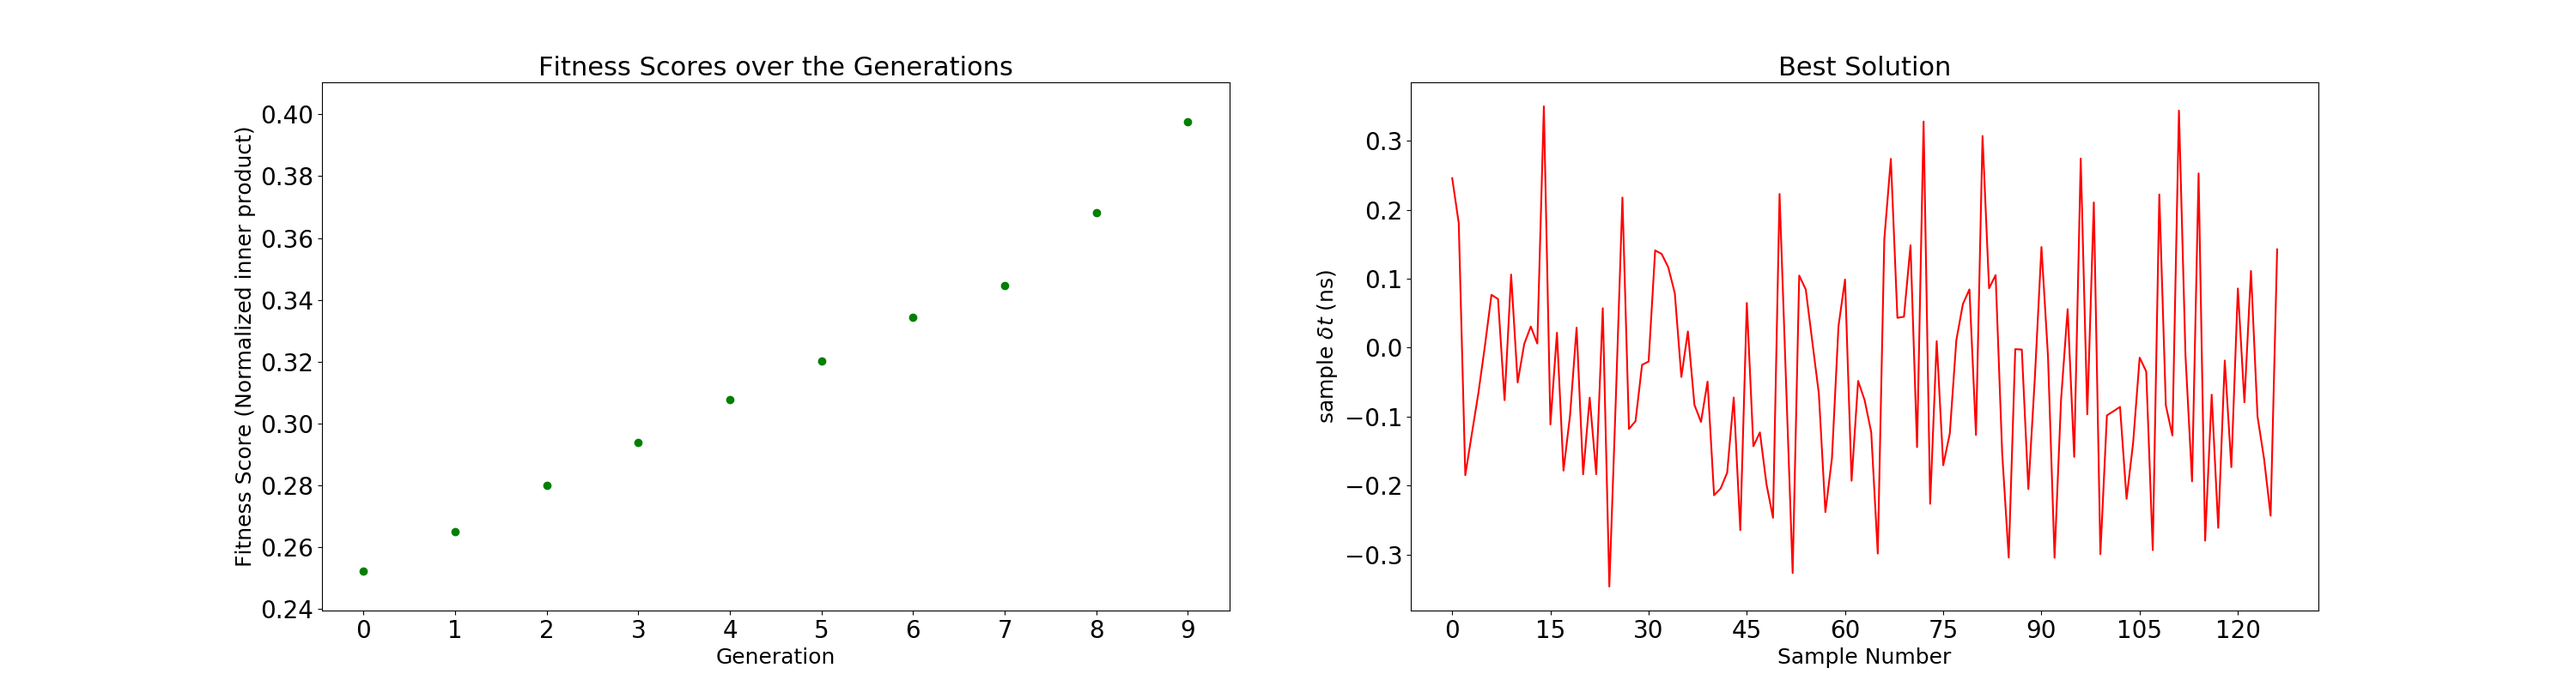
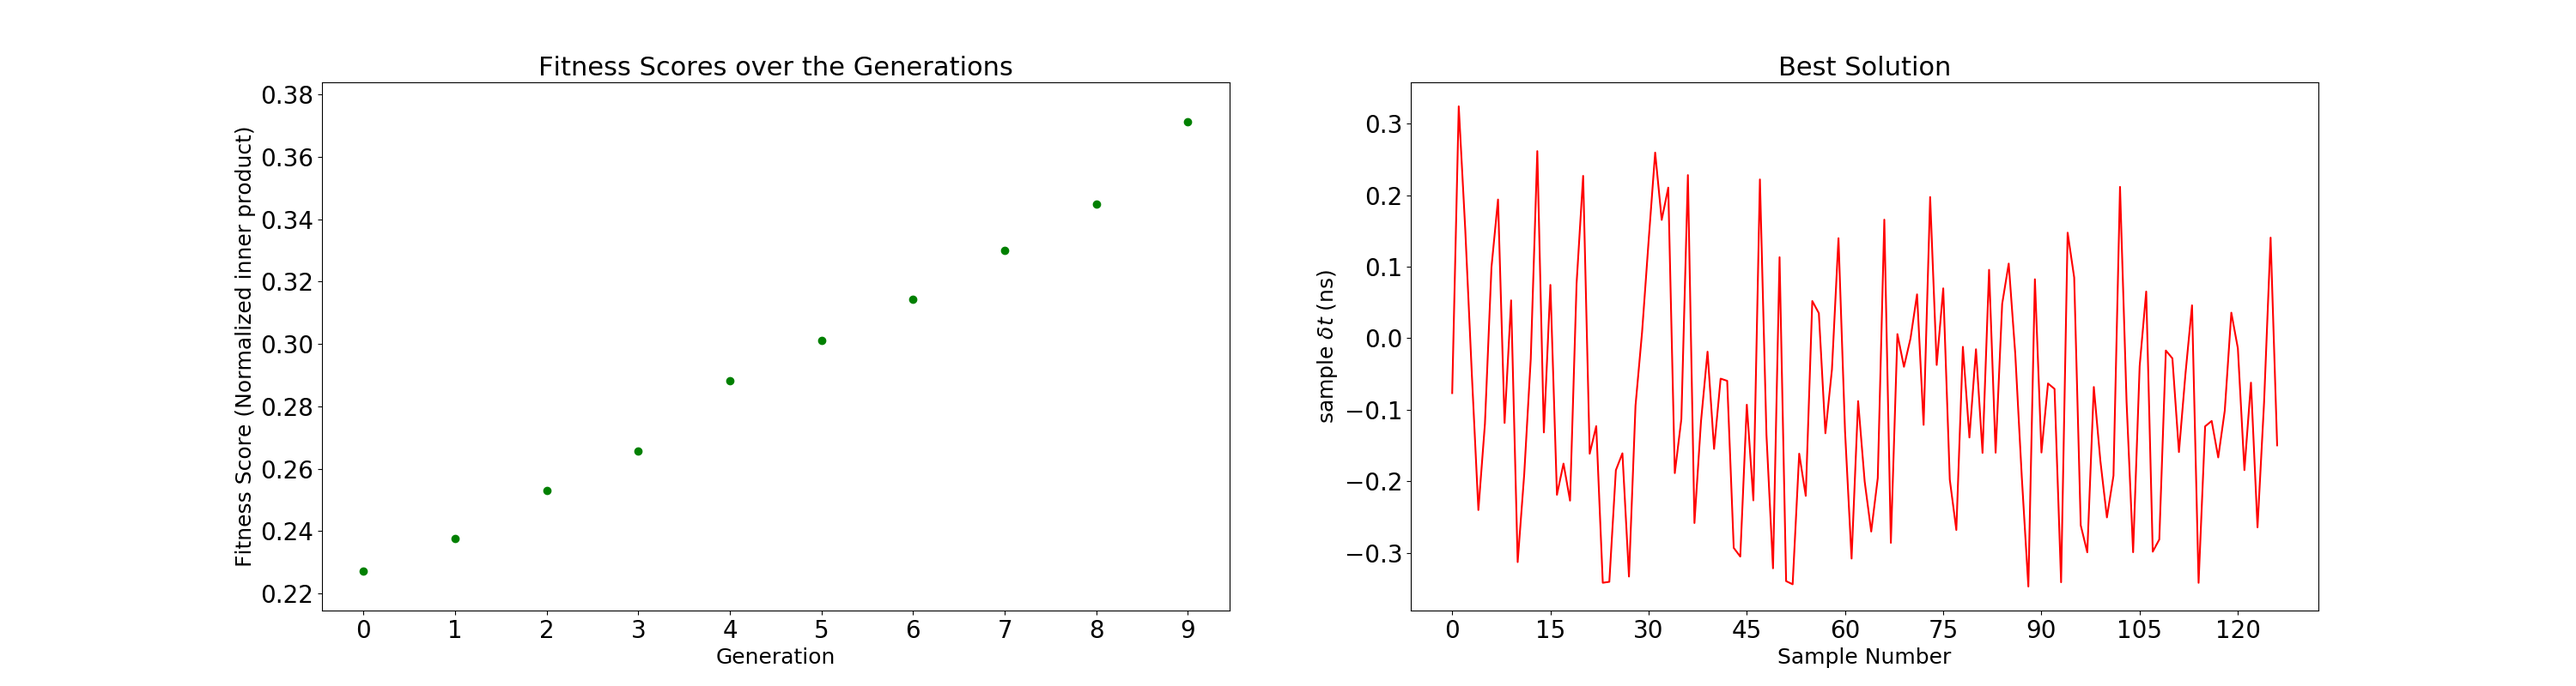
Trying to get google spreadsheets to work, but looks like a hard problem. Will probably leave it to someone else! It is commented out for now.

diff --git a/GoogleSheets/addToGSpread.py b/GoogleSheets/addToGSpread.py
@@ -1,0 +1,52 @@
+
+
+import gspread
+from oauth2client.service_account import ServiceAccountCredentials
+
+
+'''
+def AddToGoogleSpreadsheet(genMax, popMax, numNodes, fitType, 	\
+    					fitBreakdown, valRange, meanVal,	\
+    					channel,							\
+    					Alg2competitorFrac, 				\
+    					nodesCrossed, Alg3competitorFrac, 	\
+    					Alg4competitorFrac, mutSizeFrac,	\
+    					epsPercent, useAlg5, bestScore):
+'''
+def toSpreadsheet():
+
+
+	# use creds to create a client to interact with the Google Drive API
+	scope = ['https://spreadsheets.google.com/feeds']
+	#scope = ['https://www.googleapis.com/auth/spreadsheets']
+	jsonName = 'client_secret.json'
+	creds = ServiceAccountCredentials.from_json_keyfile_name(jsonName, scope)
+	client = gspread.authorize(creds)
+	'''
+	# Find a workbook by name and open the first sheet
+	# Make sure you use the right name here.
+	sheet = client.open("SignalCalib_AutoTrials").sheet1
+	
+	# Extract and print all of the values
+	list_of_hashes = sheet.get_all_records()
+	print(list_of_hashes)
+	'''
+	'''
+	useA5 = 0
+	if useAlg5:
+		useA5 = 1
+
+	header = "genMax, popMax, numNodes, fitType, valRange, meanVal"  \
+			+", Channel, Alg1Numb, Alg2Numb, Alg3Numb, Alg4Numb, " 	 \
+			+"Alg2CompFrac, nodesCrossed, Alg3CompFrac, Alg4CompFrac"\
+			+", mutSizeFrac, useAlg5, epsPercent, bestScore\n"
+
+	data = np.array([genMax, popMax, numNodes, fitType, valRange, 	\
+			meanVal, channel, fitBreakdown[0], fitBreakdown[1], 	\
+			fitBreakdown[2], fitBreakdown[3], Alg2competitorFrac,	\
+			nodesCrossed, Alg3competitorFrac, Alg4competitorFrac,	\
+			mutSizeFrac, useA5, epsPercent, bestScore]).astype(float)
+	'''
+
+
+toSpreadsheet()

diff --git a/calibratorUI.py b/calibratorUI.py
@@ -20,7 +20,7 @@ import sys                      # Used to access arguments given by terminal
 saveName = "evolvedValues"
 
 # Maximum number of Generations?
-genMax = 10
+genMax = 400
 
 # Maximum population size?
 popMax = 100
@@ -51,7 +51,7 @@ Alg1Number = 10
 # Must be divisible by 10 (e.g. 0, 10, 20, 80, etc.)
 Alg2Number = 70
 # What fraction of competitors should alg 2's tournament use?
-Alg2competitorFrac = 0.25
+Alg2competitorFrac = 0.4
 
 
 # GENETIC ALGORITHM 3 PARAMETERS
@@ -59,9 +59,9 @@ Alg2competitorFrac = 0.25
 # Must be divisible by 10 (e.g. 0, 10, 20, 80, etc.)
 Alg3Number = 10
 # What fraction of competitors should alg 3's tournament use?
-Alg3competitorFrac = 0.25
+Alg3competitorFrac = 0.5
 # What number of nodes should be crossed over to make offspring?
-nodesCrossed = 10
+nodesCrossed = 50
 
 
 # GENETIC ALGORITHM 4 PARAMETERS
@@ -69,14 +69,14 @@ nodesCrossed = 10
 # Must be divisible by 10 (e.g. 0, 10, 20, 80, etc.)
 Alg4Number = 10
 # What fraction of competitors should alg 4's tournament use?
-Alg4competitorFrac = 0.1
+Alg4competitorFrac = 0.85
 # What fraction of valRange can the node's mutation take?
-mutSizeFrac = 0.1
+mutSizeFrac = 0.05
 
 
 # GENETIC ALGORITHM 5 PARAMETERS
 # Should we use algorithm 5 at all?
-useAlg5 = True
+useAlg5 = False
 # What percent different should any individual be from another?
 # To get physical difference, calculate epsPercent*valRange
 epsPercent = 10**(-8)

diff --git a/calibratorMain.py b/calibratorMain.py
@@ -19,6 +19,7 @@ import random
 
 import calibratorGA as GA
 import calibratorFScore as FScore
+#import GoogleSheets.addToGSpread as addToGSpread
 
 
 		# General Variables
@@ -143,7 +144,15 @@ def main(genMax=100, popMax=50, numNodes=126, fitType=1, 		\
     		nodesCrossed, Alg3competitorFrac, 	\
     		Alg4competitorFrac, mutSizeFrac,	\
     		epsPercent, useAlg5, rScores[0])
-
+    '''
+    addToGSpread(genMax, popMax, numNodes, fitType, 	\
+    		fitBreakdown, valRange, meanVal,	\
+    		channel,							\
+    		Alg2competitorFrac, 				\
+    		nodesCrossed, Alg3competitorFrac, 	\
+    		Alg4competitorFrac, mutSizeFrac,	\
+    		epsPercent, useAlg5, rScores[0])
+	'''
     # Plot results
     Plot(bestScores, rPop[0], genMax, saveName)
 
@@ -380,3 +389,4 @@ def AddToCSV(genMax, popMax, numNodes, fitType, 	\
 	file.close()
 
 	return
+
